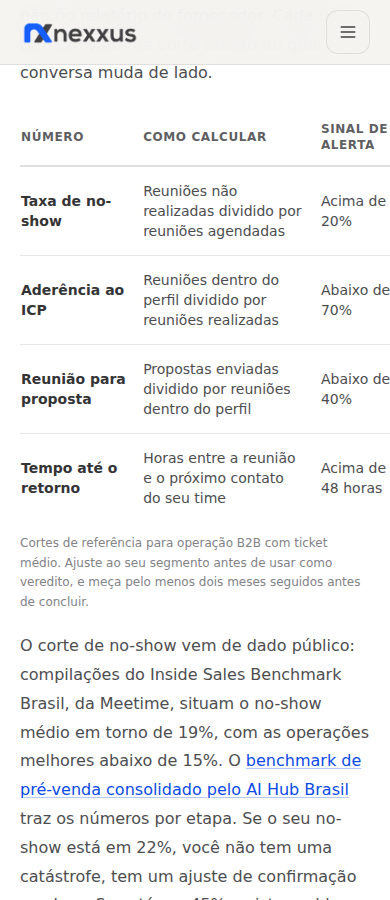
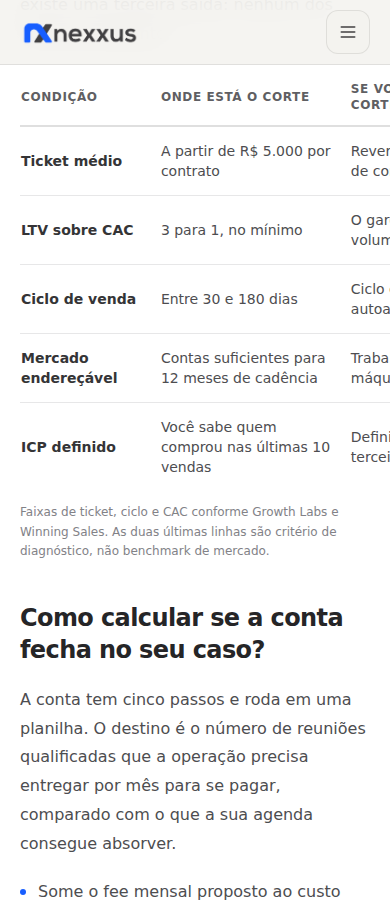
feat(blog): reescreve o post de terceirizacao com criterio de corte e rede de links
O ciclo trocou pauta nova por manutencao. Dos 9 posts publicados, apenas
quanto-custa-terceirizar-time-de-vendas aparece na busca, e o post mais antigo
sobre terceirizacao era o elo fraco: ~900 palavras, sem tabela, sem FAQ, sem
um unico numero com fonte, e reprovado no teste do apagamento.

Reescrita de por-que-terceirizar-operacao-comercial:
- novo angulo, "e quando nao": criterios que desqualificam a terceirizacao
  antes de contratar (ticket, LTV sobre CAC, ciclo, mercado enderecavel, ICP),
  que e a lacuna dos 3 primeiros organicos, todos vendendo o modelo
- 2.001 palavras, 2 tabelas, FAQ com 6 perguntas
- toda afirmacao numerica com fonte nomeada e link: CalculaBrasil (encargos
  CLT 2026), Meetime (ramp up e metricas de prospeccao), Woba (turnover,
  dado de 2023 com a idade declarada), Growth Labs e Winning Sales (ticket,
  CAC e LTV sobre CAC)
- calculo passo a passo de quantas reunioes o contrato precisa gerar
- 10 links internos (1 para servico, 9 para posts) e 6 externos
- title de 55 caracteres, excerpt de 152, termo no title, H1, primeiro
  paragrafo, um H2 e na meta description

Rede de links, para tirar o post de orfao: novos links contextuais vindos de
terceirizacao-comercial-nao-deu-resultado e de
quanto-tempo-terceirizacao-comercial-da-resultado, com o campo updated dos
dois ajustado porque o texto mudou.

Cartao social regenerado com o titulo novo. O enquadramento da foto foi de
[…]

Changed region(s): [[0.0308, 0.0622, 1.0, 1.0], [0.0615, 0.2178, 0.3385, 0.28]]

diff --git a/src/data/posts/por-que-terceirizar-operacao-comercial.ts b/src/data/posts/por-que-terceirizar-operacao-comercial.ts
@@ -2,98 +2,223 @@ import type { Post } from './types'
 
 export const post: Post = {
   slug: 'por-que-terceirizar-operacao-comercial',
-  title: 'Por que sua empresa deveria terceirizar a operação comercial',
+  title: 'Por que terceirizar a operação comercial (e quando não)',
   excerpt:
-    'Montar e manter um time de vendas custa muito mais do que o salário. Entenda os custos ocultos da estrutura própria e por que terceirizar pode ser o caminho mais rápido para vender com previsibilidade.',
+    'Terceirizar a operação comercial resolve encargo e rampa, não resolve ticket baixo nem mercado pequeno. Os critérios que desqualificam antes de assinar.',
   date: '2026-05-12',
-  updated: '2026-08-25',
-  readingMinutes: 6,
+  updated: '2026-09-15',
+  readingMinutes: 10,
   category: 'Terceirização',
   cover: '/blog/cover-terceirizacao.jpg',
   ogImage: '/blog/og-terceirizacao.jpg',
   keywords: [
-    'terceirização comercial',
-    'BPO de vendas',
-    'terceirizar time de vendas',
-    'custo de montar equipe comercial',
-    'outsourcing comercial B2B',
+    'por que terceirizar a operação comercial',
+    'quando não terceirizar o comercial',
+    'terceirização comercial vale a pena',
+    'critérios para terceirizar vendas',
+    'custo de SDR interno 2026',
+    'ticket mínimo para outbound B2B',
   ],
   content: [
     {
       type: 'p',
-      text: 'Toda empresa que quer crescer chega, mais cedo ou mais tarde, à mesma encruzilhada: é preciso vender mais de forma consistente. E a resposta intuitiva costuma ser “vou montar um time comercial”. O problema é que, entre a decisão e o primeiro resultado previsível, existe um caminho longo, caro e cheio de armadilhas que quase ninguém calcula direito.',
+      text: 'Um SDR contratado em regime CLT custa à empresa entre 1,65 e 1,85 vez o salário bruto fora do Simples Nacional, e leva de 2 a 4 meses até produzir no ritmo esperado. Esses dois números são a razão pela qual terceirizar a operação comercial entra na pauta do dono. Eles também não bastam para justificar a decisão.',
     },
     {
       type: 'p',
-      text: 'Antes de abrir uma vaga de SDR ou contratar mais um vendedor, vale entender o que realmente está em jogo, e por que cada vez mais empresas estão optando por terceirizar a operação comercial em vez de construí-la do zero.',
+      text: 'A conta do custo interno é pública e qualquer calculadora trabalhista reproduz. A que quase ninguém publica é a inversa: quanto de receita a operação terceirizada precisa gerar para se pagar, e a partir de que ticket médio ela deixa de fechar.',
     },
-    { type: 'h2', text: 'A dor de montar e manter um time de vendas' },
+    { type: 'h2', text: 'Quanto custa manter um SDR interno em 2026?' },
     {
       type: 'p',
-      text: 'Construir uma máquina comercial não é contratar uma pessoa boa de lábia. É desenhar um processo, definir o perfil de cliente ideal, estruturar um funil, escolher e configurar ferramentas, criar cadências de contato, treinar, acompanhar e corrigir rota o tempo todo. Cada uma dessas etapas exige conhecimento específico, e tempo, muito tempo, do dono ou do gestor.',
+      text: 'Entre 1,65 e 1,85 vez o salário bruto para empresas no Lucro Presumido ou no Lucro Real, e entre 1,3 e 1,4 vez no Simples Nacional. A diferença está nos encargos patronais, que fora do Simples somam de 26,8% a 28,8% sobre a folha: 20% de INSS patronal, de 1% a 3% de RAT e cerca de 5,8% de contribuições a terceiros, segundo a [calculadora de custo de funcionário CLT da CalculaBrasil](https://calculabrasil.com/blog/custo-funcionario-clt-2026).',
     },
     {
       type: 'p',
-      text: 'O resultado mais comum é um comercial que funciona “na raça”: leads entram, mas não há cadência clara de atendimento; o CRM vira um cemitério de oportunidades; o vendedor perde horas com tarefas que não fecham negócio; e o dono acaba preso na operação, cobrando follow-up e apagando incêndio. O crescimento, quando vem, depende de indicação, sorte ou do esforço heroico de uma pessoa.',
+      text: 'No Simples Nacional o INSS patronal já está embutido na alíquota única do regime, o que derruba o multiplicador. O piso vale para todo mundo: nenhum contrato CLT custa menos que o salário mais 27,44%, sendo 8% de FGTS e 19,44% de provisão de 13º, férias e terço constitucional. Um SDR com salário de R$ 3.000 e R$ 500 de benefícios sai, na prática, por algo entre R$ 4.323 e R$ 5.127 por mês, antes de qualquer ferramenta.',
+    },
+    {
+      type: 'p',
+      text: 'Depois vem a stack. CRM, ferramenta de cadência, base de dados e telefonia são custo fixo por assento, e o tempo de quem gerencia o time é custo que não aparece em folha nenhuma. A conta completa, linha a linha, com a comparação contra uma squad contratada, está em [quanto custa terceirizar o time de vendas](/blog/quanto-custa-terceirizar-time-de-vendas).',
+    },
+    { type: 'h2', text: 'Quanto tempo até o time interno produzir?' },
+    {
+      type: 'p',
+      text: 'De 2 a 4 meses para um SDR chegar à produtividade plena, com a média das operações brasileiras em 3,9 meses e 83% das empresas levando até 6 meses, segundo o [levantamento de ramp up em vendas da Meetime](https://meetime.com.br/blog/gestao-equipe/ramp-up-em-vendas/). A curva típica entrega produtividade básica entre 30 e 45 dias e produtividade média entre 60 e 90 dias.',
+    },
+    {
+      type: 'p',
+      text: 'Esse prazo não é fixo, é consequência. Sem ICP definido e sem cadência documentada, ele dobra. Com base de empresas pronta no primeiro dia e playbook escrito, cai para 2 a 3 meses. O que encurta rampa não é contratar melhor, é ter processo pronto antes de a pessoa entrar.',
+    },
+    {
+      type: 'p',
+      text: 'E a rampa se paga uma vez só se a pessoa ficar. O varejo brasileiro girava cerca de 36% ao ano em estudo de 2023 da Sociedade Brasileira de Varejo e Consumo com a CNDL, contra os 5% a 10% que especialistas tratam como saudável, e repor um profissional custa de 50% a 200% do salário anual dele, conforme o [índice de turnover no Brasil compilado pela Woba](https://blog.woba.com.br/indice-de-turnover-no-brasil/). Cada saída reinicia a contagem de meses.',
+    },
+    {
+      type: 'table',
+      headers: ['O que você compra', 'Time interno (CLT)', 'Operação terceirizada'],
+      rows: [
+        [
+          'Custo sobre o salário',
+          '1,3 a 1,4x no Simples; 1,65 a 1,85x fora dele',
+          'Fee contratado, sem encargo trabalhista',
+        ],
+        [
+          'Tempo até produzir',
+          '2 a 4 meses de rampa, média de 3,9 meses',
+          'Time já treinado; na Nexxus, setup de até 20 dias',
+        ],
+        [
+          'Risco de saída',
+          'A rampa recomeça do zero a cada desligamento',
+          'Reposição é obrigação do fornecedor',
+        ],
+        [
+          'Processo e playbook',
+          'Precisa existir antes da contratação, ou a rampa dobra',
+          'Chega pronto e é adaptado ao seu produto',
+        ],
+        [
+          'Onde o custo se esconde',
+          'Gestão, recrutamento e stack não entram na folha',
+          'Entram no fee, e é por isso que ele parece alto',
+        ],
+      ],
+      caption:
+        'Multiplicadores de encargo conforme a CalculaBrasil (2026) e prazos de rampa conforme a Meetime. O setup de até 20 dias é o prazo publicado pela Nexxus na página de serviços.',
+    },
+    { type: 'h2', text: 'Quando não terceirizar a operação comercial' },
+    {
+      type: 'p',
+      text: 'Três condições derrubam a conta antes de qualquer discussão de fornecedor. Elas são aritméticas, não são questão de execução, e nenhum fornecedor competente muda isso.',
+    },
+    {
+      type: 'p',
+      text: 'A primeira é ticket médio. O outbound B2B ganha tração quando o ticket passa de R$ 5.000 e o ciclo fica entre 30 e 180 dias, e o custo de aquisição por outbound no Brasil costuma cair entre R$ 800 e R$ 4.000, segundo o [guia de outbound B2B da Growth Labs](https://growthlabs.com.br/marketing-digital/outbound-marketing-b2b/). Com ticket de R$ 600, a operação precisa de um volume de vendas que a agenda de um closer não comporta.',
+    },
+    {
+      type: 'p',
+      text: 'A régua para conferir é o LTV sobre o CAC. Abaixo de 3 para 1 a aquisição consome o contrato, e as [métricas de vendas B2B compiladas pela Winning Sales](https://winningsales.com.br/blog/metricas-de-vendas-b2b/) tratam 3 para 1 como piso, não como meta. Se o seu LTV não chega lá com um CAC de outbound, o problema é de modelo de receita e prospecção nenhuma resolve.',
+    },
+    {
+      type: 'p',
+      text: 'A segunda é o tamanho do mercado endereçável. Prospecção ativa consome lista. Se o seu mercado real é de duzentas contas nominais, uma squad em cadência queima essa base em poucos meses e depois passa a recontatar quem já disse não. Em mercado desse tamanho, a resposta costuma ser trabalho conta a conta com quem já vende, não uma máquina de volume.',
+    },
+    {
+      type: 'p',
+      text: 'A terceira é ICP indefinido. Terceirizar prospecção quando a empresa ainda não sabe quem compra transfere para fora uma pergunta que só quem vende consegue responder, e o fornecedor vai testar hipóteses no seu orçamento. Quando o diagnóstico é esse, a comparação honesta está em [terceirizar ou montar time de vendas interno](/blog/terceirizar-ou-estruturar-comercial-interno), onde existe uma terceira saída: nenhum dos dois por enquanto.',
+    },
+    {
+      type: 'table',
+      headers: ['Condição', 'Onde está o corte', 'Se você está abaixo do corte'],
+      rows: [
+        [
+          'Ticket médio',
+          'A partir de R$ 5.000 por contrato',
+          'Rever preço ou canal antes de contratar prospecção',
+        ],
+        [
+          'LTV sobre CAC',
+          '3 para 1, no mínimo',
+          'O gargalo é margem, não volume de reunião',
+        ],
+        [
+          'Ciclo de venda',
+          'Entre 30 e 180 dias',
+          'Ciclo curtíssimo pede autoatendimento, não SDR',
+        ],
+        [
+          'Mercado endereçável',
+          'Contas suficientes para 12 meses de cadência',
+          'Trabalhar conta a conta, sem máquina de volume',
+        ],
+        [
+          'ICP definido',
+          'Você sabe quem comprou nas últimas 10 vendas',
+          'Definir o ICP primeiro, terceirizar depois',
+        ],
+      ],
+      caption:
+        'Faixas de ticket, ciclo e CAC conforme Growth Labs e Winning Sales. As duas últimas linhas são critério de diagnóstico, não benchmark de mercado.',
+    },
+    { type: 'h2', text: 'Como calcular se a conta fecha no seu caso?' },
+    {
+      type: 'p',
+      text: 'A conta tem cinco passos e roda em uma planilha. O destino é o número de reuniões qualificadas que a operação precisa entregar por mês para se pagar, comparado com o que a sua agenda consegue absorver.',
+    },
+    {
+      type: 'ul',
+      items: [
+        'Some o fee mensal proposto ao custo interno que continua existindo, como o tempo do closer que vai atender as reuniões.',
+        'Divida esse total pela sua margem de contribuição por venda, não pelo ticket. O resultado é quantas vendas por mês o contrato precisa gerar só para empatar.',
+        'Divida o número de vendas pela sua taxa de conversão de reunião em venda. Agora você tem quantas reuniões qualificadas precisa receber por mês.',
+        'Corrija pelo no-show. A [régua de métricas de prospecção da Meetime](https://meetime.com.br/blog/sales-engagement/metricas-de-prospreccao/) aponta conversão de lead em oportunidade de 17% no outbound e no-show perto de 19%, então o volume agendado precisa ser maior que o volume necessário.',
+        'Compare o número final com a capacidade real de agenda de quem vai conduzir as reuniões. Reunião que ninguém tem hora para atender não vira receita, um erro detalhado em [quem fecha a venda quando a prospecção é terceirizada](/blog/quem-fecha-a-venda-prospeccao-terceirizada).',
+      ],
+    },
+    {
+      type: 'p',
+      text: 'Se o número de reuniões necessário for maior do que a sua agenda comporta, terceirizar não resolve. Vai gerar demanda que morre esperando atendimento, e o contrato será cancelado no terceiro mês por um motivo que não tinha nada a ver com o fornecedor.',
     },
     {
       type: 'quote',
-      text: 'O maior risco não é tentar vender. É tentar escalar sem saber qual engrenagem está quebrada.',
+      text: 'Terceirização não cria margem. Ela compra tempo e processo. Onde não há margem, ela apenas acelera a descoberta.',
     },
-    { type: 'h2', text: 'Os custos ocultos da estrutura própria' },
+    { type: 'h2', text: 'O que exigir no contrato antes de assinar' },
     {
       type: 'p',
-      text: 'Quando você soma a conta real de um time interno, o salário é só a ponta do iceberg. Há custos que raramente entram na planilha, e que costumam pesar mais do que a folha:',
+      text: 'A cláusula que mais decide resultado não é o preço, é a definição de entrega. Contrato que promete reunião agendada sem dizer o que conta como reunião permite encher a agenda com quem não decide e ainda assim bater meta.',
     },
     {
       type: 'ul',
       items: [
-        'Recrutamento e seleção: tempo de triagem, entrevistas e o risco sempre presente de contratar a pessoa errada.',
-        'Treinamento e rampa: leva meses até um vendedor novo atingir produtividade plena, e esses meses são pagos mesmo sem resultado.',
-        'Ferramentas e infraestrutura: CRM, discadora, ferramentas de prospecção, automações e a curva de aprendizado para usá-las bem.',
-        'Gestão: alguém precisa definir metas, acompanhar indicadores, revisar pipeline e dar feedback. Isso é trabalho de gestor, não sobra de tempo.',
-        'Turnover: quando um vendedor sai, vai embora com ele todo o conhecimento, os relacionamentos e o investimento feito. E o ciclo recomeça.',
+        'Critério de aceite escrito: cargo, porte, dor identificada e confirmação de presença. O detalhamento do que torna uma reunião aceitável está em [o que conta como reunião qualificada](/blog/o-que-conta-como-reuniao-qualificada).',
+        'Direito de recusa: quantas reuniões o time interno pode devolver por mês, com qual justificativa e em que prazo.',
+        'Propriedade do dado: o CRM, as listas e o histórico de contato são seus e saem com você. Sem essa cláusula, trocar de fornecedor significa recomeçar do zero.',
+        'Marco de avaliação intermediário, não apenas o prazo final do contrato. O que medir em cada etapa está no [prazo da terceirização comercial, etapa por etapa](/blog/quanto-tempo-terceirizacao-comercial-da-resultado).',
+        'Modelo de remuneração declarado. Pagamento por reunião realizada cria incentivo para volume; fee fixo cria incentivo para acomodação. Saber qual distorção você está comprando vale mais do que negociar 10% no preço.',
       ],
     },
+    { type: 'h2', text: 'Como a Nexxus trata essa decisão' },
     {
       type: 'p',
-      text: 'Some tudo isso e o custo de “fazer sozinho” fica muito acima do esperado, especialmente quando se considera o custo de oportunidade dos meses perdidos em tentativa e erro, aumentando despesa sem aumentar venda. A conta aberta, com os encargos separados por regime tributário e a comparação linha a linha com uma squad terceirizada, está em [quanto custa terceirizar o time de vendas](/blog/quanto-custa-terceirizar-time-de-vendas).',
-    },
-    { type: 'h2', text: 'O que muda quando você terceiriza' },
-    {
-      type: 'p',
-      text: 'Terceirizar a operação comercial não é “alugar um vendedor”. É contratar uma operação inteira já estruturada: método validado, time especializado, ferramentas configuradas e gestão orientada a dados. Os benefícios aparecem em quatro frentes principais.',
-    },
-    {
-      type: 'ul',
-      items: [
-        'Previsibilidade: com funil, cadência e indicadores claros, você passa a enxergar quanto entra, quanto avança e quanto fecha, e a planejar com base em dados, não em torcida. O primeiro indicador a acompanhar costuma ser [quantas reuniões um SDR deve agendar por mês](/blog/quantas-reunioes-sdr-por-mes), com a meta calculada a partir da receita e não copiada de benchmark.',
-        'Time pronto: em vez de meses de recrutamento e rampa, você ganha SDR, Hunter e Closer atuando cada um no papel certo, desde o início.',
-        'Foco no core business: o dono sai do operacional do dia a dia e volta a cuidar do que só ele pode fazer: produto, estratégia e crescimento.',
-        'Escala mais rápida: a estrutura já existe, então crescer vira uma questão de ajustar a máquina, não de reconstruí-la do zero a cada novo patamar.',
-      ],
+      text: 'A ordem do método diz onde está o peso: a arquitetura comercial vem antes das pessoas. O [serviço de terceirização comercial](/servicos) abre com diagnóstico e desenho de ICP, oferta e canal, e só depois monta a squad, configura o CRM e liga a cadência D1 a D12. O setup publicado é de até 20 dias, e a squad inclui Head Comercial e Sales Ops na gestão, não apenas SDR e closer em campo.',
     },
     {
       type: 'p',
-      text: 'A diferença prática é enorme. Em vez de meses até a operação engatar, uma estrutura terceirizada bem montada pode estar rodando em semanas, com time treinado, CRM organizado e cadência ativa, gerando reuniões e fechamentos enquanto você cuida do restante do negócio.',
+      text: 'A consequência é desconfortável e responde ao título: a etapa de arquitetura existe justamente para descobrir, antes de a squad entrar em campo, se ticket e mercado sustentam a operação. Sai mais barato para os dois lados descobrir isso ali do que no terceiro mês. Se a sua terceirização atual já passou desse ponto sem resultado, o roteiro de diagnóstico está em [terceirização comercial não deu resultado](/blog/terceirizacao-comercial-nao-deu-resultado).',
     },
-    { type: 'h2', text: 'Terceirizar é abrir mão do controle?' },
+  ],
+  faq: [
     {
-      type: 'p',
-      text: 'Essa é a objeção mais comum, e ela parte de um mal-entendido. Terceirizar bem é justamente o contrário de perder controle: é ganhar visibilidade. Com uma operação data-driven, você tem dashboards, KPIs e relatórios que mostram exatamente onde está cada lead e cada gargalo. Reuniões de cadência e acompanhamento próximo garantem que estratégia e execução andem juntas.',
-    },
-    {
-      type: 'p',
-      text: 'O dono deixa de ser o gerente de vendas improvisado e passa a ocupar o lugar de quem toma decisões estratégicas com informação na mão. Controle de verdade não é estar no meio da operação: é enxergar a operação inteira com clareza.',
-    },
-    { type: 'h2', text: 'Como a Nexxus entra nessa história' },
-    {
-      type: 'p',
-      text: 'Na Nexxus, terceirização comercial não significa entregar um vendedor avulso. Significa assumir a sua operação de vendas com método, dados e governança. Antes de qualquer pessoa entrar em campo, desenhamos a arquitetura comercial do seu negócio: ICP, oferta, canal e funil. Só depois construímos o time certo, configuramos as ferramentas e colocamos a cadência para rodar, com gestão semanal e acompanhamento contínuo.',
+      pergunta: 'Terceirizar a operação comercial sai mais barato que contratar CLT?',
+      resposta:
+        'Depende do regime tributário e do que entra na comparação. Um SDR interno custa de 1,3 a 1,4 vez o salário bruto no Simples Nacional e de 1,65 a 1,85 vez fora dele, antes de ferramentas e do tempo de gestão. O fee terceirizado parece maior porque já embute gestão, stack e reposição. A comparação linha a linha está em [quanto custa terceirizar o time de vendas](/blog/quanto-custa-terceirizar-time-de-vendas).',
     },
     {
-      type: 'p',
-      text: 'O resultado é uma operação comercial previsível, com time pronto e processo claro, e um dono livre para crescer o negócio em vez de apagar incêndio. Se você se identificou com as dores deste texto, talvez o próximo passo não seja contratar mais uma pessoa, e sim estruturar a operação de uma vez. Comece entendendo o que entra na [terceirização da operação comercial](/servicos), e se a dúvida ainda for de modelo, compare os dois caminhos em [terceirizar ou estruturar o comercial interno](/blog/terceirizar-ou-estruturar-comercial-interno).',
+      pergunta: 'A partir de que ticket médio a terceirização comercial se paga?',
+      resposta:
+        'O outbound B2B ganha tração a partir de R$ 5.000 de ticket, com ciclo entre 30 e 180 dias, faixa indicada pelo guia de outbound da Growth Labs. Abaixo disso o número de vendas necessário para cobrir o custo costuma exceder a capacidade de agenda do time que atende as reuniões.',
+    },
+    {
+      pergunta: 'Quanto tempo demora até a operação terceirizada dar resultado?',
+      resposta:
+        'A squad contratada elimina a rampa de contratação, que no time interno leva de 2 a 4 meses segundo a Meetime, mas não elimina o ciclo de venda do seu produto. O prazo realista está aberto em [quanto tempo a terceirização comercial leva para dar resultado](/blog/quanto-tempo-terceirizacao-comercial-da-resultado).',
+    },
+    {
+      pergunta: 'Terceirizar significa perder o controle da operação?',
+      resposta:
+        'Só se o contrato deixar. Controle aqui é contratual: critério de aceite escrito, propriedade do CRM e das listas, direito de recusa de reunião e marco de avaliação intermediário. Com essas quatro cláusulas você enxerga mais da operação do que a maioria dos gestores enxerga do próprio time interno.',
+    },
+    {
+      pergunta: 'Dá para terceirizar só a prospecção e manter o fechamento dentro de casa?',
+      resposta:
+        'Sim, e é o desenho mais comum. O ponto de atenção é capacidade de agenda: a prospecção entrega volume de reunião que o closer interno precisa conseguir atender. A divisão de responsabilidade está em [quem fecha a venda quando a prospecção é terceirizada](/blog/quem-fecha-a-venda-prospeccao-terceirizada).',
+    },
+    {
+      pergunta: 'Qual a diferença entre terceirizar o comercial e contratar uma consultoria?',
+      resposta:
+        'A consultoria desenha o processo e treina, e quem executa continua sendo o seu time. A terceirização coloca gente em campo executando com método próprio. Quando o time já existe e o que falta é processo, a mentoria costuma resolver mais barato; quando não há time, a squad resolve mais rápido.',
     },
   ],
 }

diff --git a/src/data/posts/quanto-tempo-terceirizacao-comercial-da-resultado.ts b/src/data/posts/quanto-tempo-terceirizacao-comercial-da-resultado.ts
@@ -6,6 +6,7 @@ export const post: Post = {
   excerpt:
     'Em quanto tempo a terceirização comercial dá resultado? A primeira reunião cai entre a semana 3 e a 6. A primeira venda depende do seu ciclo. Veja a conta.',
   date: '2026-09-01',
+  updated: '2026-09-15',
   readingMinutes: 9,
   category: 'Implantação',
   cover: '/blog/cover-quanto-tempo-resultado.jpg',
@@ -228,7 +229,7 @@ export const post: Post = {
     {
       pergunta: 'Qual prazo mínimo de contrato faz sentido para avaliar o resultado?',
       resposta:
-        'O prazo mínimo tem que cobrir pelo menos um ciclo de vendas completo depois da primeira reunião, mais um mês para o segundo lote de oportunidades. Com ticket até R$ 5 mil isso dá quatro meses; entre R$ 5 mil e R$ 25 mil, seis meses; acima de R$ 25 mil, sete meses. Contrato mais curto que isso encerra antes de existir dado suficiente para decidir, e a empresa paga o setup sem colher a parte que justifica o setup.',
+        'O prazo mínimo tem que cobrir pelo menos um ciclo de vendas completo depois da primeira reunião, mais um mês para o segundo lote de oportunidades. Com ticket até R$ 5 mil isso dá quatro meses; entre R$ 5 mil e R$ 25 mil, seis meses; acima de R$ 25 mil, sete meses. Contrato mais curto que isso encerra antes de existir dado suficiente para decidir, e a empresa paga o setup sem colher a parte que justifica o setup. Antes de discutir prazo, vale conferir se o ticket e o mercado sustentam a conta, em [por que terceirizar a operação comercial, e quando não](/blog/por-que-terceirizar-operacao-comercial).',
     },
     {
       pergunta: 'Como sei se o atraso é do fornecedor ou da minha empresa?',

diff --git a/carrossel/slides-blog-covers.build.html b/carrossel/slides-blog-covers.build.html
@@ -126,14 +126,16 @@
 <!-- ══════════ CARTÕES SOCIAIS (1200x630, com título) ══════════ -->
 
 <div class="og" data-slug="og-terceirizacao">
-  <div class="photo" style="background-image:url('img/global/equipe-operacao.webp'); background-position:center 34%;"></div>
+  <!-- Enquadramento em 62%: a 34% o logo da parede do escritório caía logo acima
+       do título e o cartão lia como se tivesse a marca duas vezes. -->
+  <div class="photo" style="background-image:url('img/global/equipe-operacao.webp'); background-position:center 62%;"></div>
   <div class="shade"></div><div class="edge"></div>
   <header><img class="logo" alt="Nexxus"><span class="chip">Terceirização</span></header>
   <div class="body">
     <div class="rule"></div>
-    <h1>Por que sua empresa deveria<br>terceirizar a <span class="hl">operação comercial</span></h1>
+    <h1 class="sm">Por que terceirizar a operação<br>comercial <span class="hl">(e quando não)</span></h1>
   </div>
-  <footer><span class="meta">Blog Nexxus · <b>6 min de leitura</b></span><span class="site">nexxusagencia.com.br</span></footer>
+  <footer><span class="meta">Blog Nexxus · <b>10 min de leitura</b></span><span class="site">nexxusagencia.com.br</span></footer>
 </div>
 
 <div class="og clara" data-slug="og-terceirizar-ou-estruturar">

diff --git a/carrossel/slides-blog-covers.html b/carrossel/slides-blog-covers.html
@@ -126,14 +126,16 @@
 <!-- ══════════ CARTÕES SOCIAIS (1200x630, com título) ══════════ -->
 
 <div class="og" data-slug="og-terceirizacao">
-  <div class="photo" style="background-image:url('img/global/equipe-operacao.webp'); background-position:center 34%;"></div>
+  <!-- Enquadramento em 62%: a 34% o logo da parede do escritório caía logo acima
+       do título e o cartão lia como se tivesse a marca duas vezes. -->
+  <div class="photo" style="background-image:url('img/global/equipe-operacao.webp'); background-position:center 62%;"></div>
   <div class="shade"></div><div class="edge"></div>
   <header><img class="logo" alt="Nexxus"><span class="chip">Terceirização</span></header>
   <div class="body">
     <div class="rule"></div>
-    <h1>Por que sua empresa deveria<br>terceirizar a <span class="hl">operação comercial</span></h1>
+    <h1 class="sm">Por que terceirizar a operação<br>comercial <span class="hl">(e quando não)</span></h1>
   </div>
-  <footer><span class="meta">Blog Nexxus · <b>6 min de leitura</b></span><span class="site">nexxusagencia.com.br</span></footer>
+  <footer><span class="meta">Blog Nexxus · <b>10 min de leitura</b></span><span class="site">nexxusagencia.com.br</span></footer>
 </div>
 
 <div class="og clara" data-slug="og-terceirizar-ou-estruturar">

diff --git a/src/data/posts/terceirizacao-comercial-nao-deu-resultado.ts b/src/data/posts/terceirizacao-comercial-nao-deu-resultado.ts
@@ -6,6 +6,7 @@ export const post: Post = {
   excerpt:
     'Terceirização comercial não deu resultado? Antes de trocar de fornecedor, veja o prazo mínimo para julgar e os quatro números que apontam o culpado.',
   date: '2026-09-08',
+  updated: '2026-09-15',
   readingMinutes: 9,
   category: 'Diagnóstico',
   cover: '/blog/cover-nao-deu-resultado.jpg',
@@ -199,7 +200,7 @@ export const post: Post = {
     },
     {
       type: 'p',
-      text: 'No diagnóstico inicial, a resposta pode ser que terceirizar não é o próximo passo do seu caso. Quando o gargalo está em oferta, preço ou entrega, colocar volume no topo do funil piora o quadro, e dizer isso antes do contrato é mais barato para os dois lados do que descobrir no mês seis.',
+      text: 'No diagnóstico inicial, a resposta pode ser que terceirizar não é o próximo passo do seu caso. Quando o gargalo está em oferta, preço ou entrega, colocar volume no topo do funil piora o quadro, e dizer isso antes do contrato é mais barato para os dois lados do que descobrir no mês seis. Os cortes de ticket, mercado endereçável e ICP que levam a essa conclusão estão abertos em [por que terceirizar a operação comercial, e quando não](/blog/por-que-terceirizar-operacao-comercial).',
     },
   ],
   faq: [
